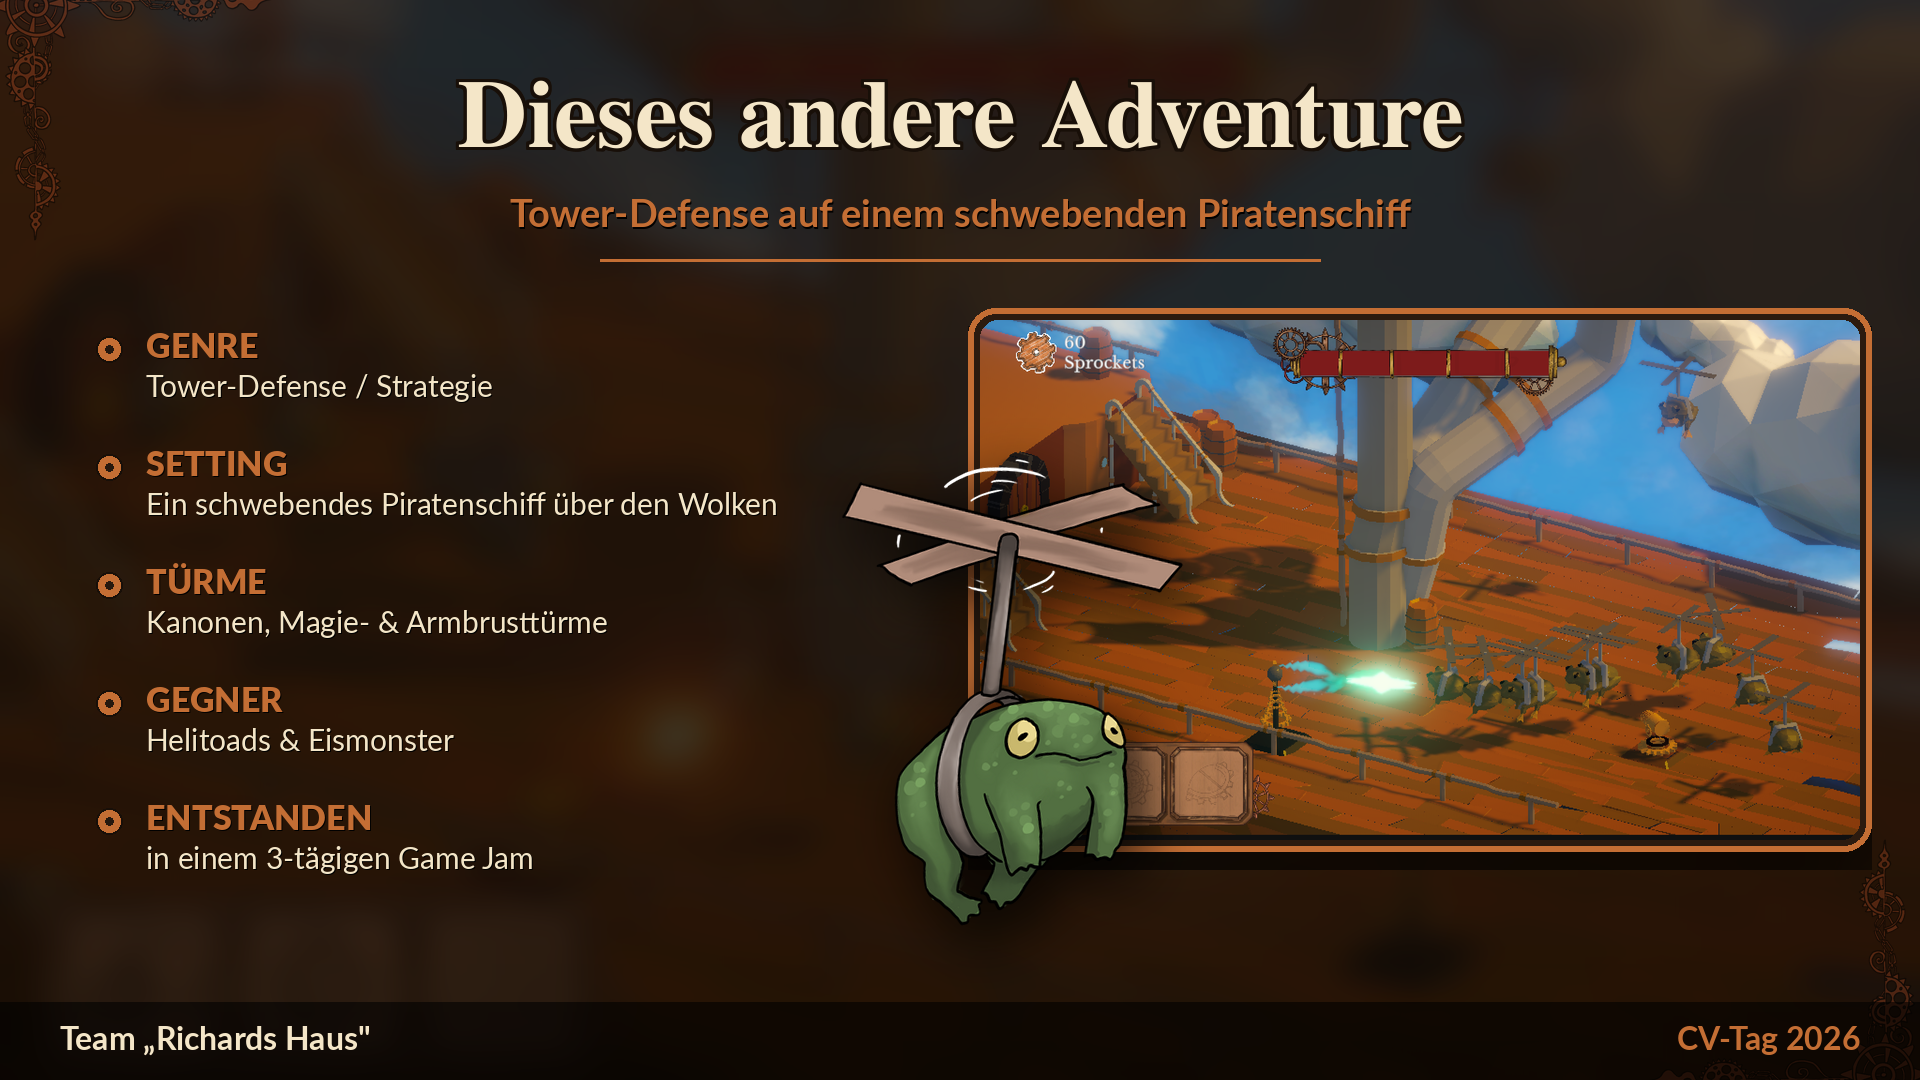
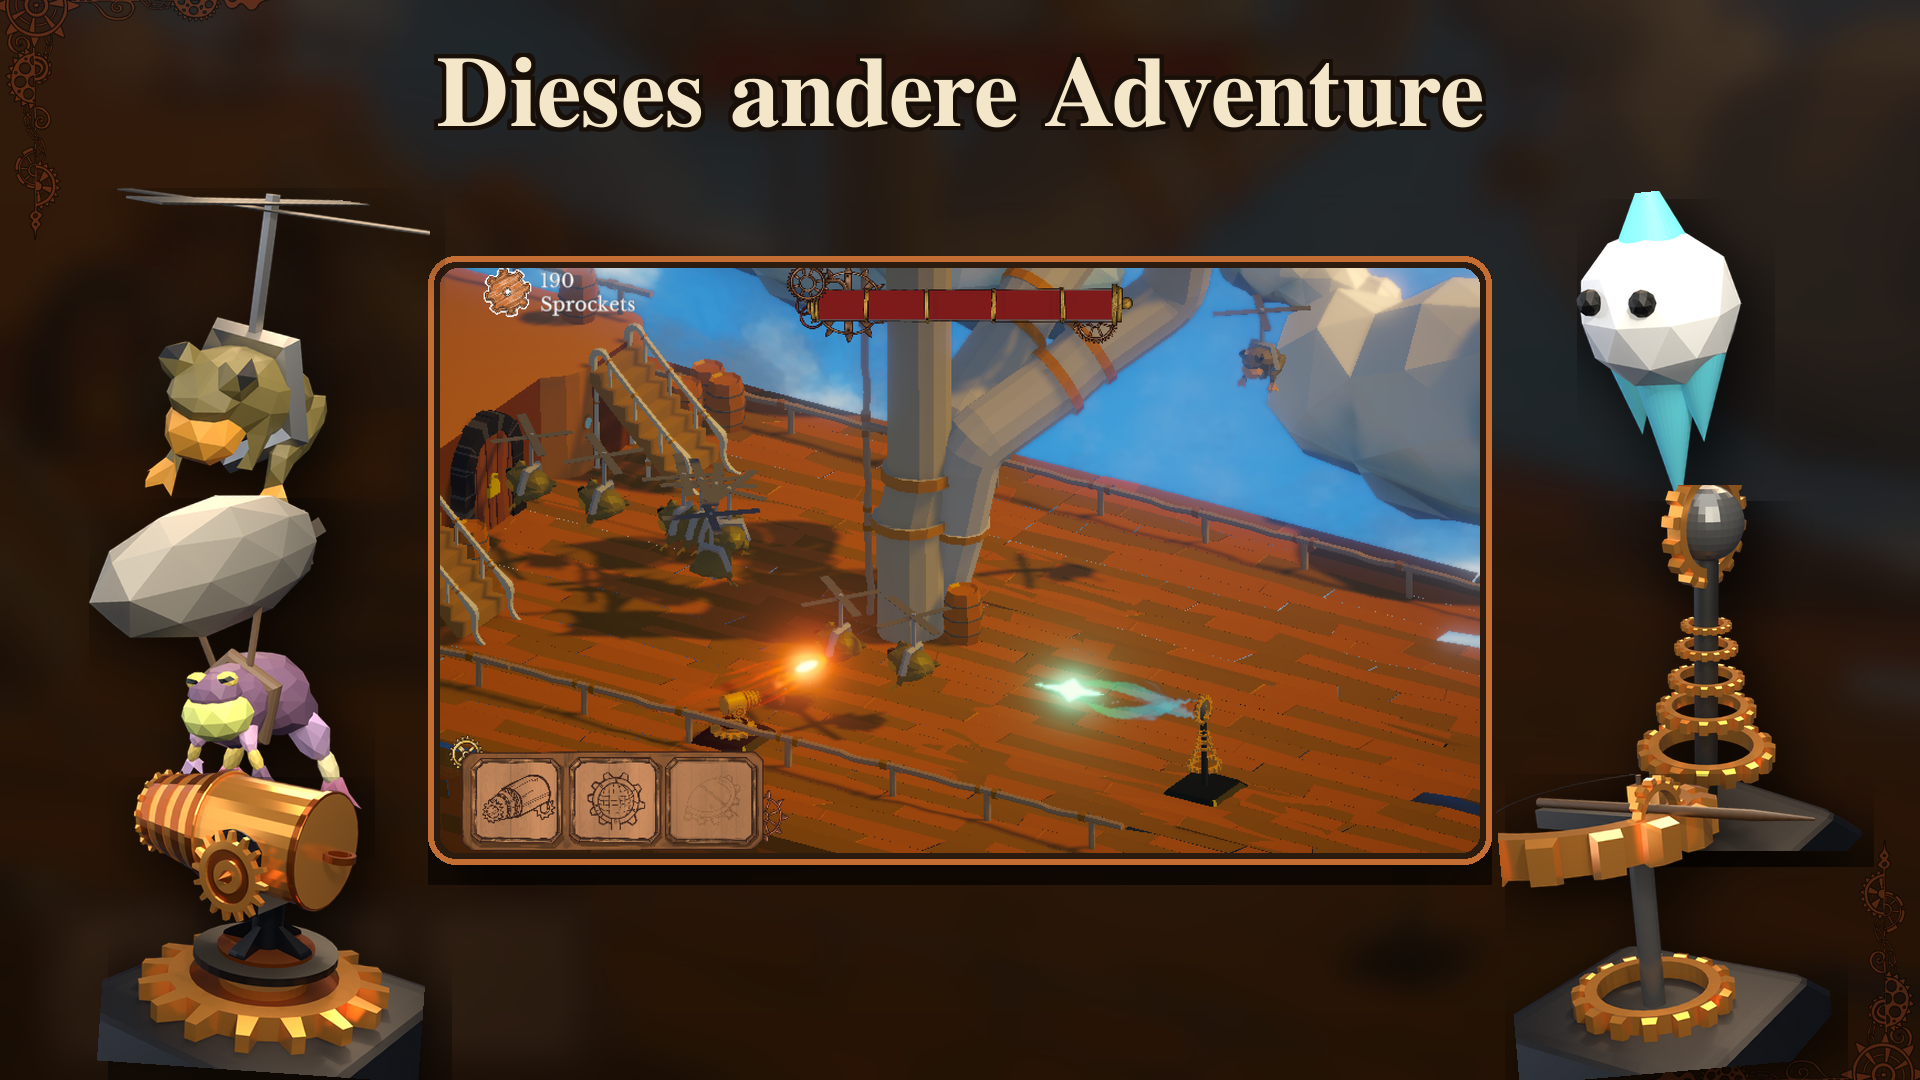
better slides

diff --git a/cvtag/build_slides.py b/cvtag/build_slides.py
@@ -13,6 +13,11 @@ SHOT_FIRE = os.path.join(CV, "Screenshot from 2026-06-17 09-38-13.png")  # tower
 TOAD      = os.path.join(GFX, "Toad2.png")    # heli-toad with propeller
 TOAD_FLAT = os.path.join(GFX, "toadd.png")    # plain toad
 GEAR      = os.path.join(GFX, "menuArt.png")  # steampunk gear corner
+RENDER    = os.path.join(CV,  "media", "floattoad.png")  # 3D Blender render of the FloatToad
+CARDS     = [os.path.join(GFX, n) for n in ("canon1.png", "canon2.png", "canon3.png")]  # tower cards
+# Blender renders of the game models (transparent PNGs in media/)
+MODELS    = {n: os.path.join(CV, "media", n + ".png")
+             for n in ("floattoad", "helitoad", "iceball", "cannon", "crossbow", "tesla")}
 
 # ---- palette (warm steampunk) ----
 CREAM   = (244, 230, 200)
@@ -76,6 +81,34 @@ def fit_toad(scale_h):
     s = scale_h / t.height
     return t.resize((round(t.width * s), round(t.height * s)), Image.LANCZOS)
 
+def fit_h(img, scale_h):
+    """Resize an RGBA image to a target height, preserving aspect."""
+    s = scale_h / img.height
+    return img.resize((round(img.width * s), round(img.height * s)), Image.LANCZOS)
+
+def trim(img):
+    """Autocrop transparent margins."""
+    img = img.convert("RGBA")
+    bb = img.split()[3].getbbox()
+    return img.crop(bb) if bb else img
+
+def load_render(scale_h):
+    return fit_h(trim(Image.open(RENDER)), scale_h)
+
+def model_img(name, h, rot=0):
+    """Trimmed Blender render of a game model, sized to height h, optionally rotated."""
+    img = fit_h(trim(Image.open(MODELS[name])), h)
+    if rot:
+        img = img.rotate(rot, expand=True, resample=Image.BICUBIC)
+    return img
+
+def paste_centered(canvas, img, cx, cy, **kw):
+    paste_with_shadow(canvas, img, cx - img.width // 2, cy - img.height // 2, **kw)
+
+def tower_card(scale_h):
+    """Load a tower card cropped tight to its wooden frame, at target height."""
+    return [fit_h(trim(Image.open(p)), scale_h) for p in CARDS]
+
 def rounded_panel(w, h, radius, fill, border=None, bw=0):
     p = Image.new("RGBA", (w, h), (0, 0, 0, 0))
     d = ImageDraw.Draw(p)
@@ -109,23 +142,28 @@ def build_preview():
     gear.putalpha(gear.split()[3].point(lambda p: int(p * 0.55)))
     canvas.alpha_composite(gear, (-30, -34))
 
-    # heli-toad mascot, bottom-right (fully visible)
-    toad = fit_toad(430).rotate(-8, expand=True, resample=Image.BICUBIC)
-    paste_with_shadow(canvas, toad, W - toad.width - 34, H - toad.height - 12,
-                      blur=22, alpha=170, dx=14, dy=16)
+    # 3D-rendered FloatToad mascot, bottom-right (fully visible)
+    toad = load_render(560).rotate(-8, expand=True, resample=Image.BICUBIC)
+    paste_with_shadow(canvas, toad, W - toad.width + 6, H - toad.height + 8,
+                      blur=24, alpha=180, dx=14, dy=16)
+
+    # tower-card trio, bottom-left (the arsenal, shown not told)
+    cards = tower_card(132)
+    cw = cards[0].width
+    cxs, cys = 60, H - cards[0].height - 26
+    for i, card in enumerate(cards):
+        paste_with_shadow(canvas, card, cxs + i * (cw + 18), cys,
+                          blur=12, alpha=140, dx=6, dy=8, grow=3)
 
     d = ImageDraw.Draw(canvas)
     # title
-    text(d, (60, 470), "Dieses andere", font(FS, 78), CREAM,
+    text(d, (60, 300), "Dieses andere", font(FS, 78), CREAM,
          outline=DARK2, ow=3, shadow=(0, 0, 0))
-    text(d, (60, 548), "Adventure", font(FS, 78), COPPER,
+    text(d, (60, 378), "Adventure", font(FS, 78), COPPER,
          outline=DARK2, ow=3, shadow=(0, 0, 0))
     # subtitle
-    text(d, (64, 636), "Tower-Defense auf einem schwebenden Piratenschiff",
+    text(d, (64, 466), "Tower-Defense auf einem schwebenden Piratenschiff",
          font(LB, 27), CREAM, shadow=(0, 0, 0), sh_off=(1, 2))
-    # team tag (top-left under gear)
-    text(d, (64, 40), "Ein Game-Jam-Spiel von Richards Haus",
-         font(LB, 24), CREAM, shadow=(0, 0, 0), sh_off=(1, 2))
 
     out = os.path.join(CV, "preview", "preview.png")
     canvas.convert("RGB").save(out, "PNG")
@@ -153,55 +191,35 @@ def build_fast_forward():
 
     d = ImageDraw.Draw(canvas)
 
-    # ---- header ----
-    text(d, (W // 2, 70), "Dieses andere Adventure", font(FS, 96), CREAM,
-         anchor="ma", outline=DARK2, ow=3, shadow=(0, 0, 0))
-    text(d, (W // 2, 196), "Tower-Defense auf einem schwebenden Piratenschiff",
-         font(LB, 38), COPPER, anchor="ma", shadow=(0, 0, 0), sh_off=(1, 2))
-    # divider rule
-    d.line([(W // 2 - 360, 260), (W // 2 + 360, 260)], fill=COPPER, width=3)
-
-    # ---- right: framed screenshot ----
-    shot = cover(Image.open(SHOT_ROW), 880, 520)
-    frame = rounded_panel(880 + 24, 520 + 24, 28, (44, 27, 15, 255),
-                          border=COPPER, bw=6)
-    inner = rounded_panel(880, 520, 18, (0, 0, 0, 255))
+    # ---- centered gameplay screenshot (the hero in the middle) ----
+    sw, sh = 1040, 585
+    shot = cover(Image.open(SHOT_FIRE), sw, sh)
+    frame = rounded_panel(sw + 24, sh + 24, 28, (44, 27, 15, 255), border=COPPER, bw=6)
+    inner = rounded_panel(sw, sh, 18, (0, 0, 0, 255))
     mask = inner.split()[3]
-    fx, fy = 980, 320
-    paste_with_shadow(canvas, frame, fx - 12, fy - 12, blur=26, alpha=160, dx=0, dy=18)
-    shot_r = Image.new("RGBA", (880, 520), (0, 0, 0, 0))
+    fx, fy = (W - sw) // 2, 268
+    paste_with_shadow(canvas, frame, fx - 12, fy - 12, blur=28, alpha=170, dx=0, dy=20)
+    shot_r = Image.new("RGBA", (sw, sh), (0, 0, 0, 0))
     shot_r.paste(shot, (0, 0), mask)
     canvas.alpha_composite(shot_r, (fx, fy))
 
-    # heli-toad mascot overlapping frame, bottom-left of it
-    toad = fit_toad(540).rotate(-7, expand=True, resample=Image.BICUBIC)
-    paste_with_shadow(canvas, toad, 770, H - toad.height - 92,
-                      blur=26, alpha=180, dx=14, dy=16)
-
-    # ---- left: info bullets ----
-    bx, by = 96, 330
-    bullets = [
-        ("Genre", "Tower-Defense / Strategie"),
-        ("Setting", "Ein schwebendes Piratenschiff über den Wolken"),
-        ("Türme", "Kanonen, Magie- & Armbrusttürme"),
-        ("Gegner", "Helitoads & Eismonster"),
-        ("Entstanden", "in einem 3-tägigen Game Jam"),
+    # ---- the cast, spread around the screenshot (3D Blender renders) ----
+    # (name, height, rotation, center-x, center-y)
+    spread = [
+        ("helitoad",  322,  -7,  256,  352),   # top-left    enemy
+        ("floattoad", 332,   7,  220,  662),   # mid-left    enemy
+        ("cannon",    300,  -4,  268,  922),   # bottom-left tower
+        ("iceball",   318,   6, 1664,  350),   # top-right   enemy
+        ("tesla",     366,   0, 1706,  668),   # mid-right   tower
+        ("crossbow",  300,   5, 1664,  922),   # bottom-right tower
     ]
-    lh = 118
-    bf, bf2 = font(LK, 34), font(LR, 30)
-    for i, (head, body) in enumerate(bullets):
-        y = by + i * lh
-        # copper gear-bullet
-        d.ellipse([bx, y + 6, bx + 26, y + 32], fill=COPPER, outline=DARK2, width=2)
-        d.ellipse([bx + 9, y + 15, bx + 17, y + 23], fill=DARK)
-        text(d, (bx + 50, y), head.upper(), bf, COPPER, shadow=(0, 0, 0), sh_off=(1, 1))
-        text(d, (bx + 50, y + 42), body, bf2, CREAM, shadow=(0, 0, 0), sh_off=(1, 1))
+    for name, h, rot, cx, cy in spread:
+        paste_centered(canvas, model_img(name, h, rot), cx, cy,
+                       blur=26, alpha=175, dx=12, dy=16, grow=4)
 
-    # ---- footer band ----
-    band = Image.new("RGBA", (W, 78), (0, 0, 0, 150))
-    canvas.alpha_composite(band, (0, H - 78))
-    text(d, (60, H - 56), "Team „Richards Haus\"", font(LB, 32), CREAM)
-    text(d, (W - 60, H - 56), "CV-Tag 2026", font(LB, 32), COPPER, anchor="ra")
+    # ---- the only text: the title ----
+    text(d, (W // 2, 46), "Dieses andere Adventure", font(FS, 100), CREAM,
+         anchor="ma", outline=DARK2, ow=4, shadow=(0, 0, 0))
 
     out = os.path.join(CV, "fast_forward", "fast_forward.png")
     canvas.convert("RGB").save(out, "PNG")